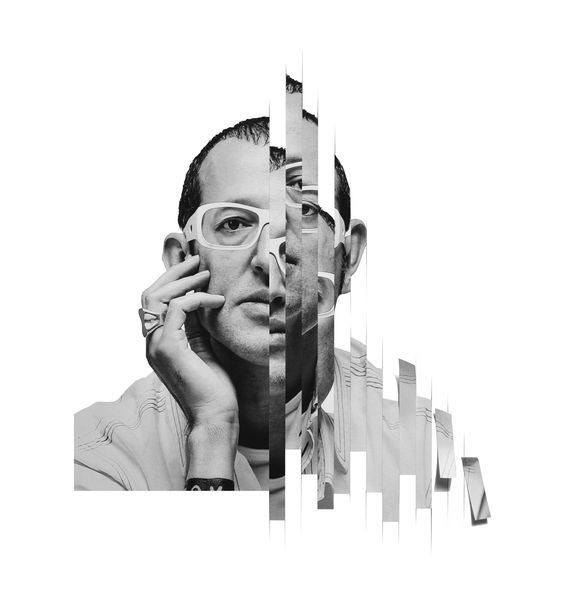
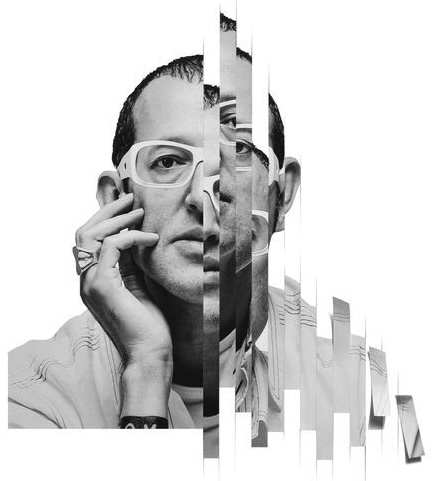
homepage

diff --git a/src/components/home/project.tsx b/src/components/home/project.tsx
@@ -1,0 +1,60 @@
+"use client";
+
+import { projects } from "@/data/projects";
+import { useState } from "react";
+import { TbMichelinStar } from "react-icons/tb";
+import { TfiAngleDown, TfiArrowTopRight } from "react-icons/tfi";
+
+const Project = () => {
+  const [activeCard, setActiveCard] = useState(Number);
+
+  const handleCardClick = (index: number) => {
+    setActiveCard(index);
+  };
+
+  return (
+    <div className="w-full bg-black text-white px-10 pb-20">
+      <div className="flex justify-between items-center gap-10 px-20 py-20 border-b-[0.5px] border-b-white">
+        <div className="uppercase text-6xl font-bold w-1/2">
+          {/* The Cool Stuff I’ve Built */}
+          Discover the Cool Projects I&apos;ve Crafted
+        </div>
+        <div className="text-xl w-1/2 flex flex-col gap-5 h-full">
+          <div>
+            Are you interested in exploring the details of all the projects
+            I&apos;ve worked on and discovering the various aspects of each one?
+          </div>
+          <div className="flex items-center text-2xl gap-4">
+            <div className="border-b border-b-white">All Projects</div>
+            <div className="rounded-full border border-white p-3 text-center">
+              <TfiArrowTopRight className="pr-1 pt-1 text-2xl" />
+            </div>
+          </div>
+        </div>
+      </div>
+      <div>
+        {projects.map((project, index) => (
+          <div
+            key={index}
+            onClick={() => handleCardClick(index)}
+            className={`px-20 py-7 border-b-[0.5px] border-b-white flex flex-col ${
+              activeCard === index ? "active" : ""
+            }`}
+          >
+            <div className="flex items-center gap-5 justify-between">
+              <div className="flex items-center gap-5">
+                <TbMichelinStar className="text-3xl" />
+
+                <div className="text-4xl">{project.name}</div>
+              </div>
+              <TfiAngleDown className="text-2xl" />
+              {/* <TfiAngleUp /> */}
+            </div>
+          </div>
+        ))}
+      </div>
+    </div>
+  );
+};
+
+export default Project;

diff --git a/src/components/home/hero.tsx b/src/components/home/hero.tsx
@@ -3,14 +3,14 @@ import Image from "next/image";
 const Hero = () => {
   return (
     <div className="h-screen w-full relative">
-      <div className="flex justify-end items-center h-full pr-6">
-        <Image src="/potrait.jpg" alt="foto" width={700} height={700} />
+      <div className="flex justify-end items-center h-full pr-14">
+        <Image src="/potrait.jpg" alt="foto" width={620} height={620} />
       </div>
 
-      <div className="flex flex-col justify-center h-full z-10 absolute top-0  left-20">
-        <div className="uppercase text-8xl">A Web Developer</div>
-        <div className="uppercase text-8xl pl-32">Who Loves</div>
-        <div className="uppercase text-8xl pl-60">Exploring</div>
+      <div className="flex flex-col justify-center h-full z-10 absolute top-0 left-20 text-8xl font-medium">
+        <div className="uppercase ">A Web Developer</div>
+        <div className="uppercase pl-32">Who Loves</div>
+        <div className="uppercase pl-60">Exploring</div>
       </div>
     </div>
   );

diff --git a/src/components/home/about.tsx b/src/components/home/about.tsx
@@ -1,0 +1,24 @@
+import { MdArrowOutward } from "react-icons/md";
+
+const Profile = () => {
+  return (
+    <div className="w-full h-screen bg-black text-white">
+      <div className="flex justify-between items-center gap-10 p-20 h-">
+        <div className="uppercase text-6xl font-bold w-1/2">
+          The Projects I Have Worked
+        </div>
+        <div className="text-xl w-1/2 flex flex-col gap-5 h-full">
+          <div>Would you like to have a look at the detail of them?</div>
+          <div className="flex items-center text-2xl gap-4">
+            <div className="">All Projects</div>
+            <div className="rounded-full border border-white p-2">
+              <MdArrowOutward />
+            </div>
+          </div>
+        </div>
+      </div>
+    </div>
+  );
+};
+
+export default Profile;

diff --git a/src/app/page.tsx b/src/app/page.tsx
@@ -1,19 +1,14 @@
+import OnProgress from "@/components/onProgress";
+
 export default function Home() {
   return (
     <>
-      <div
-        className="h-screen w-full bg-cover bg-center"
-        style={{
-          backgroundImage:
-            "url(https://i.pinimg.com/originals/50/8a/4a/508a4a9f50607cad1a7bcf4f9343a6ea.gif)",
-        }}
-      >
-        <div className="flex flex-col justify-center items-center h-full bg-black bg-opacity-50">
-          <div className="uppercase text-2xl md:text-6xl text-white font-bold">
-            under construction
-          </div>
-        </div>
-      </div>
+      <OnProgress />
+      {/* <Navbar />
+      <Hero />
+      <Profile />
+      <Project />
+      <Contact /> */}
     </>
   );
 }

diff --git a/src/components/onProgress.tsx b/src/components/onProgress.tsx
@@ -1,0 +1,19 @@
+const OnProgress = () => {
+  return (
+    <div
+      className="h-screen w-full bg-cover bg-center"
+      style={{
+        backgroundImage:
+          "url(https://i.pinimg.com/originals/50/8a/4a/508a4a9f50607cad1a7bcf4f9343a6ea.gif)",
+      }}
+    >
+      <div className="flex flex-col justify-center items-center h-full bg-black bg-opacity-50">
+        <div className="uppercase text-2xl md:text-6xl text-white font-bold">
+          under construction
+        </div>
+      </div>
+    </div>
+  );
+};
+
+export default OnProgress;

diff --git a/src/data/projects.ts b/src/data/projects.ts
@@ -1,0 +1,26 @@
+export const projects = [
+  {
+    id: 1,
+    name: "Alcove",
+    description: "",
+    image: "",
+  },
+  {
+    id: 2,
+    name: "Tikfest",
+    description: "",
+    image: "",
+  },
+  {
+    id: 3,
+    name: "BBH Store",
+    description: "",
+    image: "",
+  },
+  {
+    id: 4,
+    name: "Invozy",
+    description: "",
+    image: "",
+  },
+];

diff --git a/src/components/contact.tsx b/src/components/contact.tsx
@@ -1,0 +1,5 @@
+const Contact = () => {
+  return <div className="w-full h-screen bg-black"></div>;
+};
+
+export default Contact;
